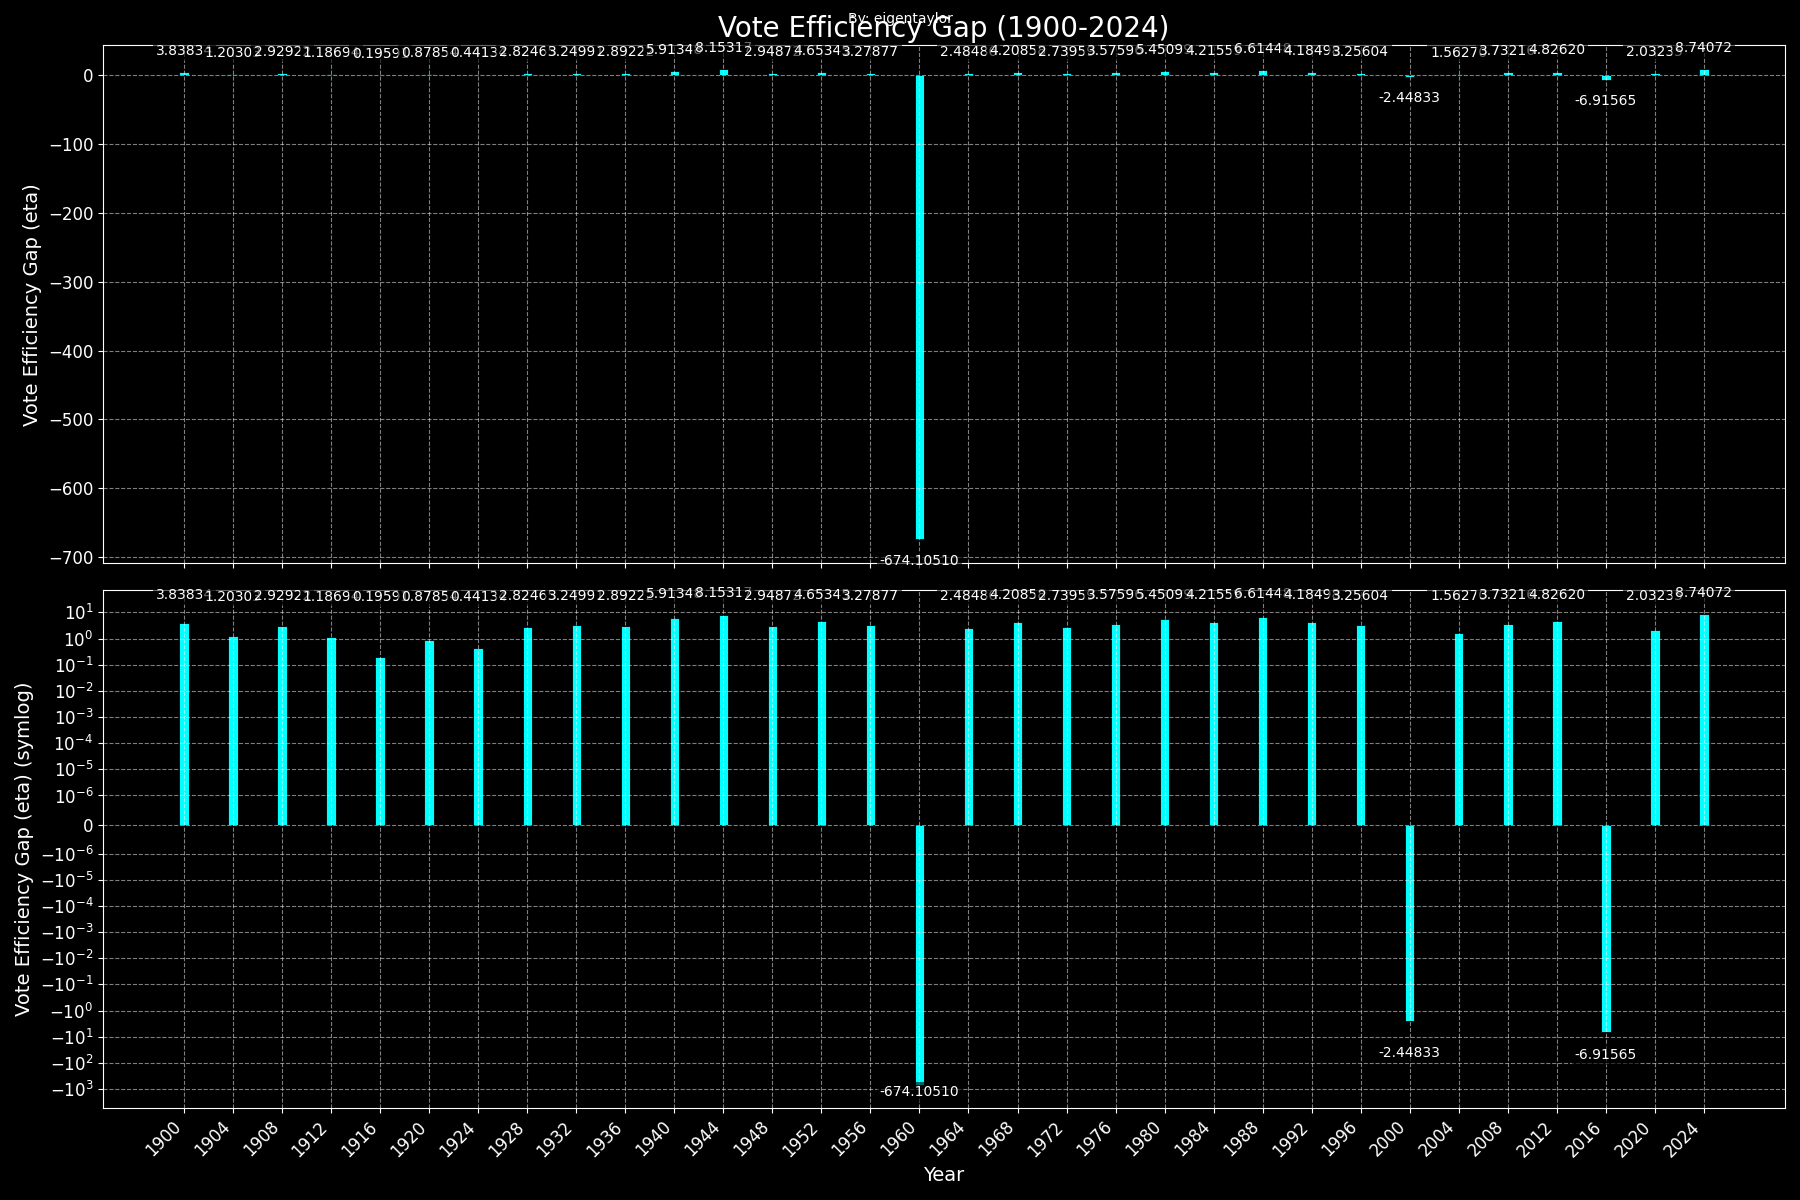
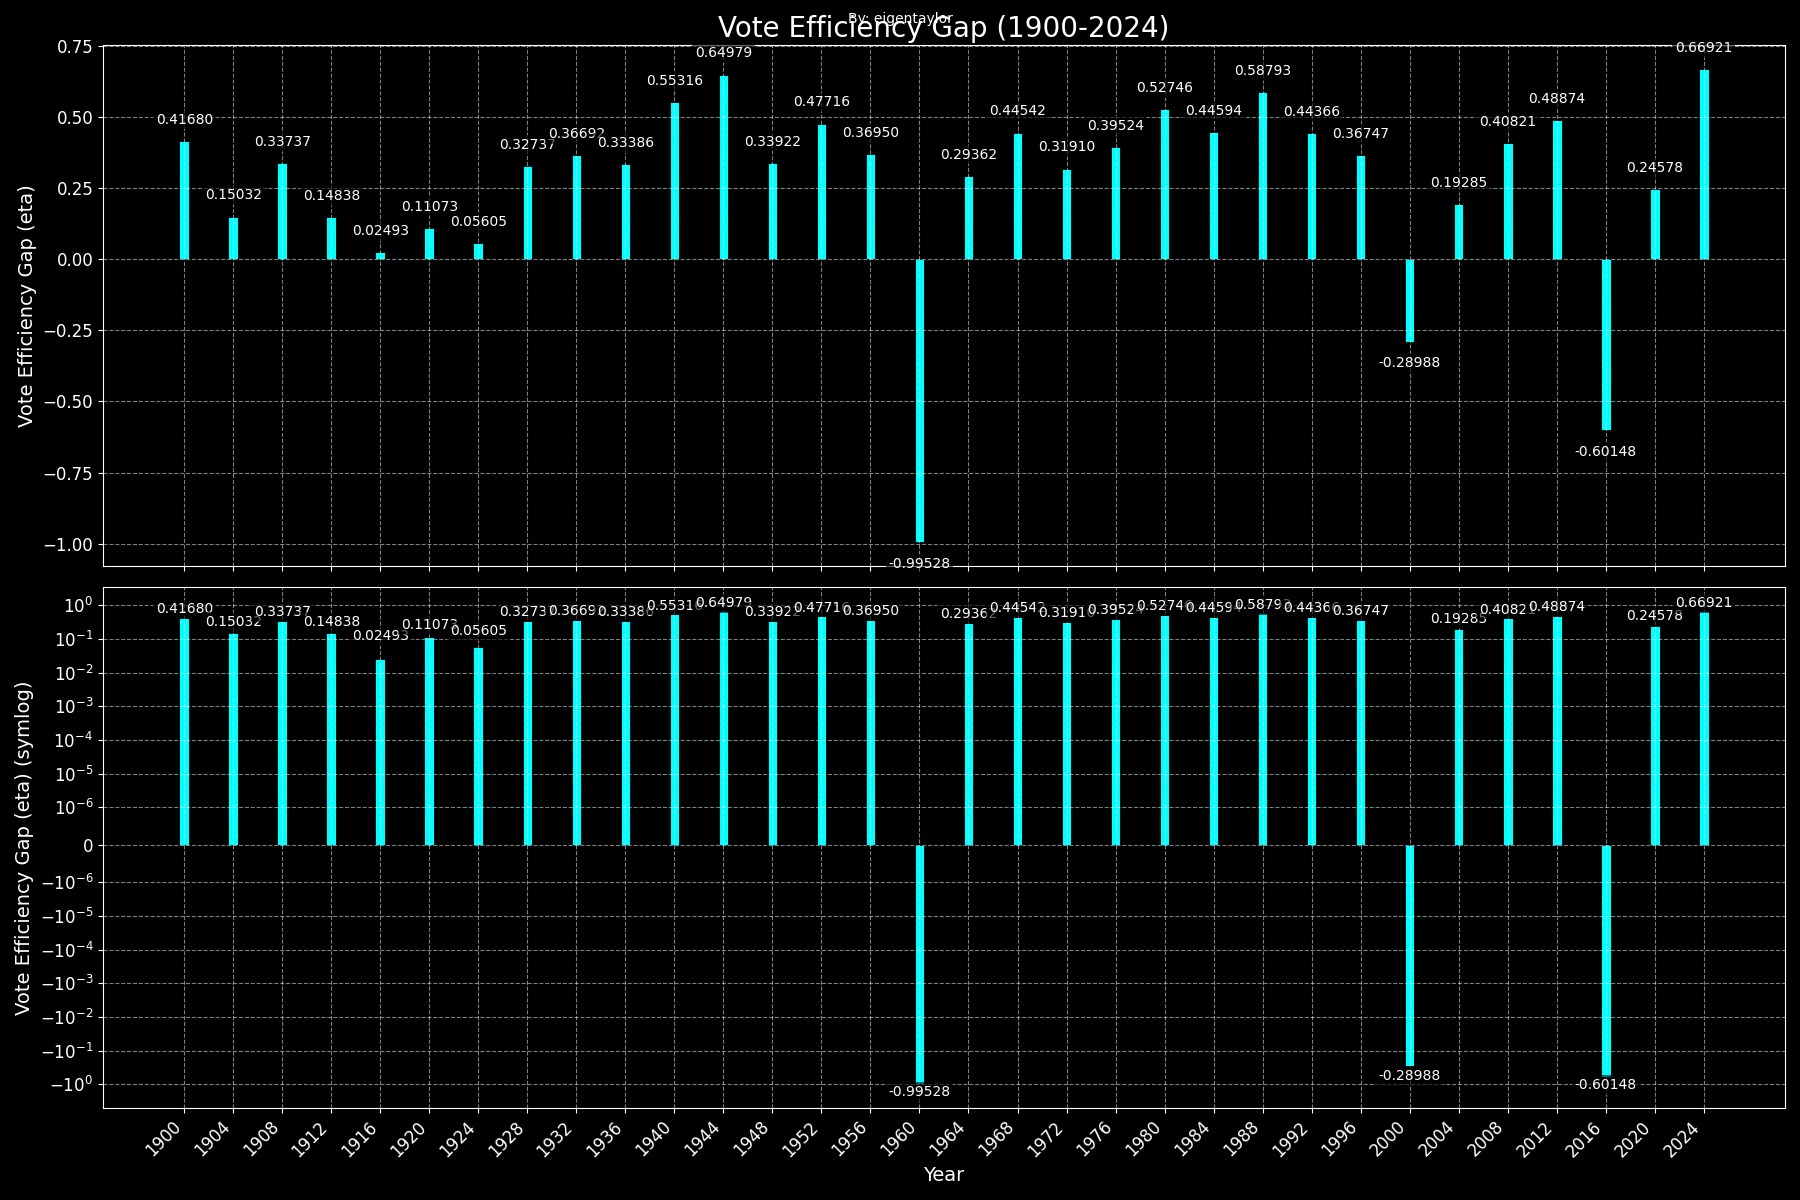
Normalize vote efficiency gap eta metric
Applied an arctan-based normalization to the vote efficiency gap eta calculation in election_metrics.py. Updated historical results in election_metrics-1900-2024.csv and refreshed the corresponding plot image.

diff --git a/election_metrics.py b/election_metrics.py
@@ -161,7 +161,10 @@ def compute_year_metrics(year_df: pd.DataFrame, alpha: float = 0.5,
         eta = float('inf')
     else:
         denom = (PV_share - 0.5)
-        eta = (EC_share - 0.5) / denom - 1 if denom != 0 else float('inf')
+        def transform(x):
+            # Normalize to [-1, 1]
+            return np.arctan(x / 5) / (np.pi / 2)
+        eta = transform((EC_share - 0.5) / denom - 1 if denom != 0 else float('inf'))
 
     # Recount Vulnerability
     close_states_ev = 0
